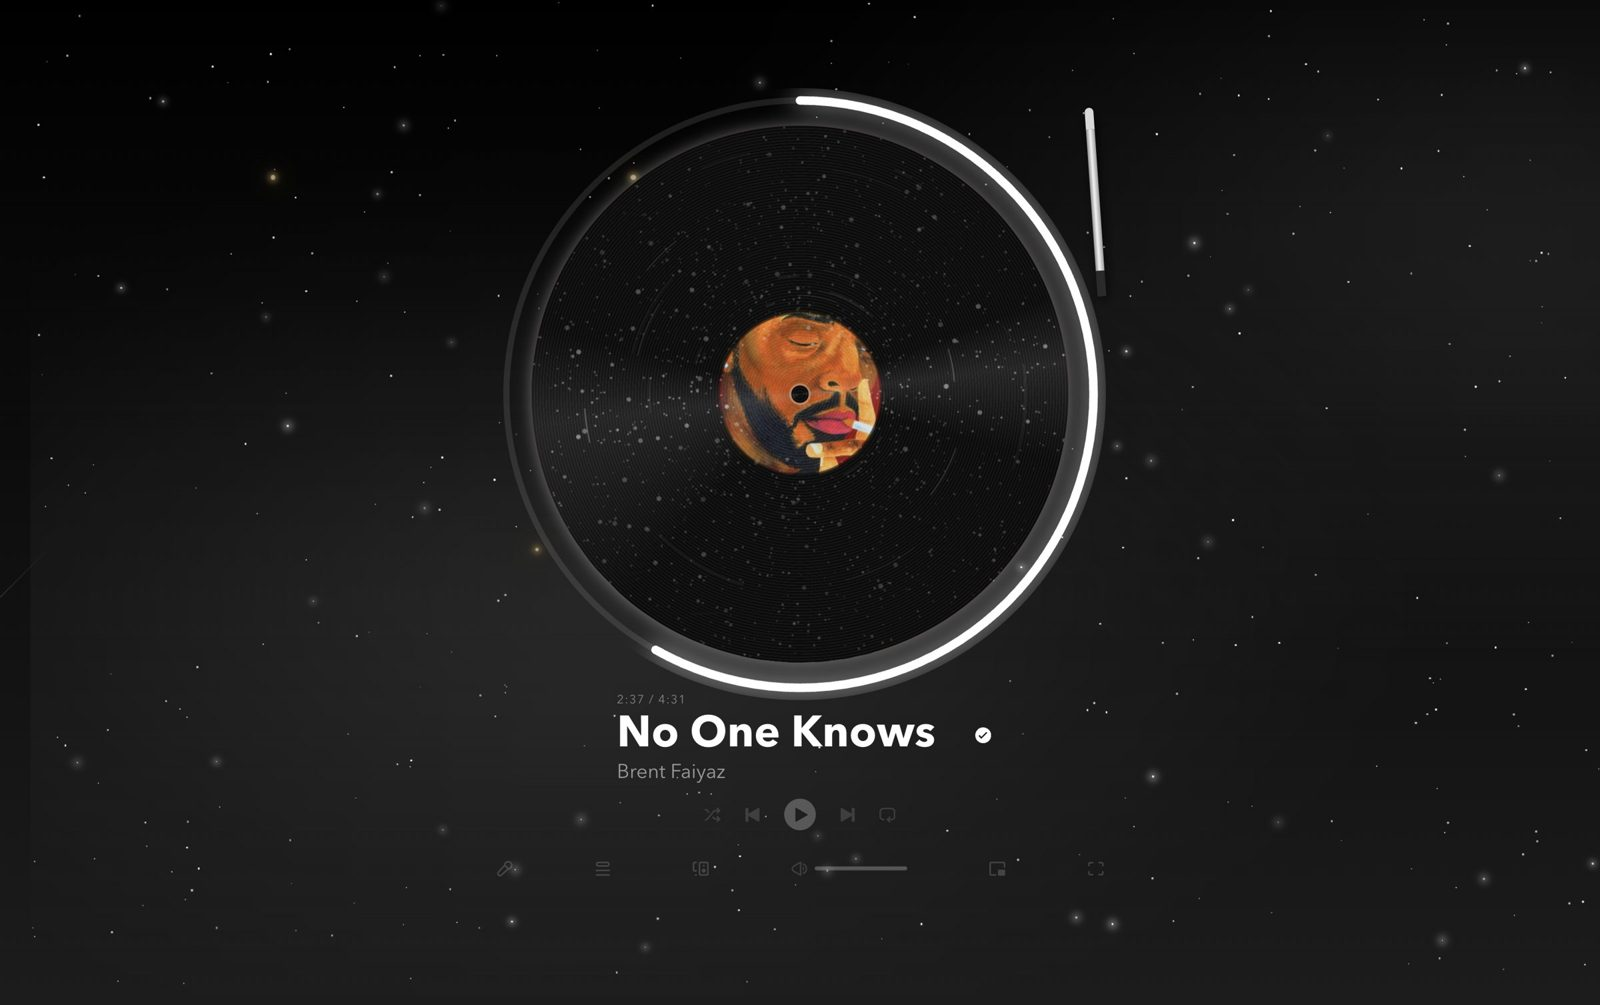
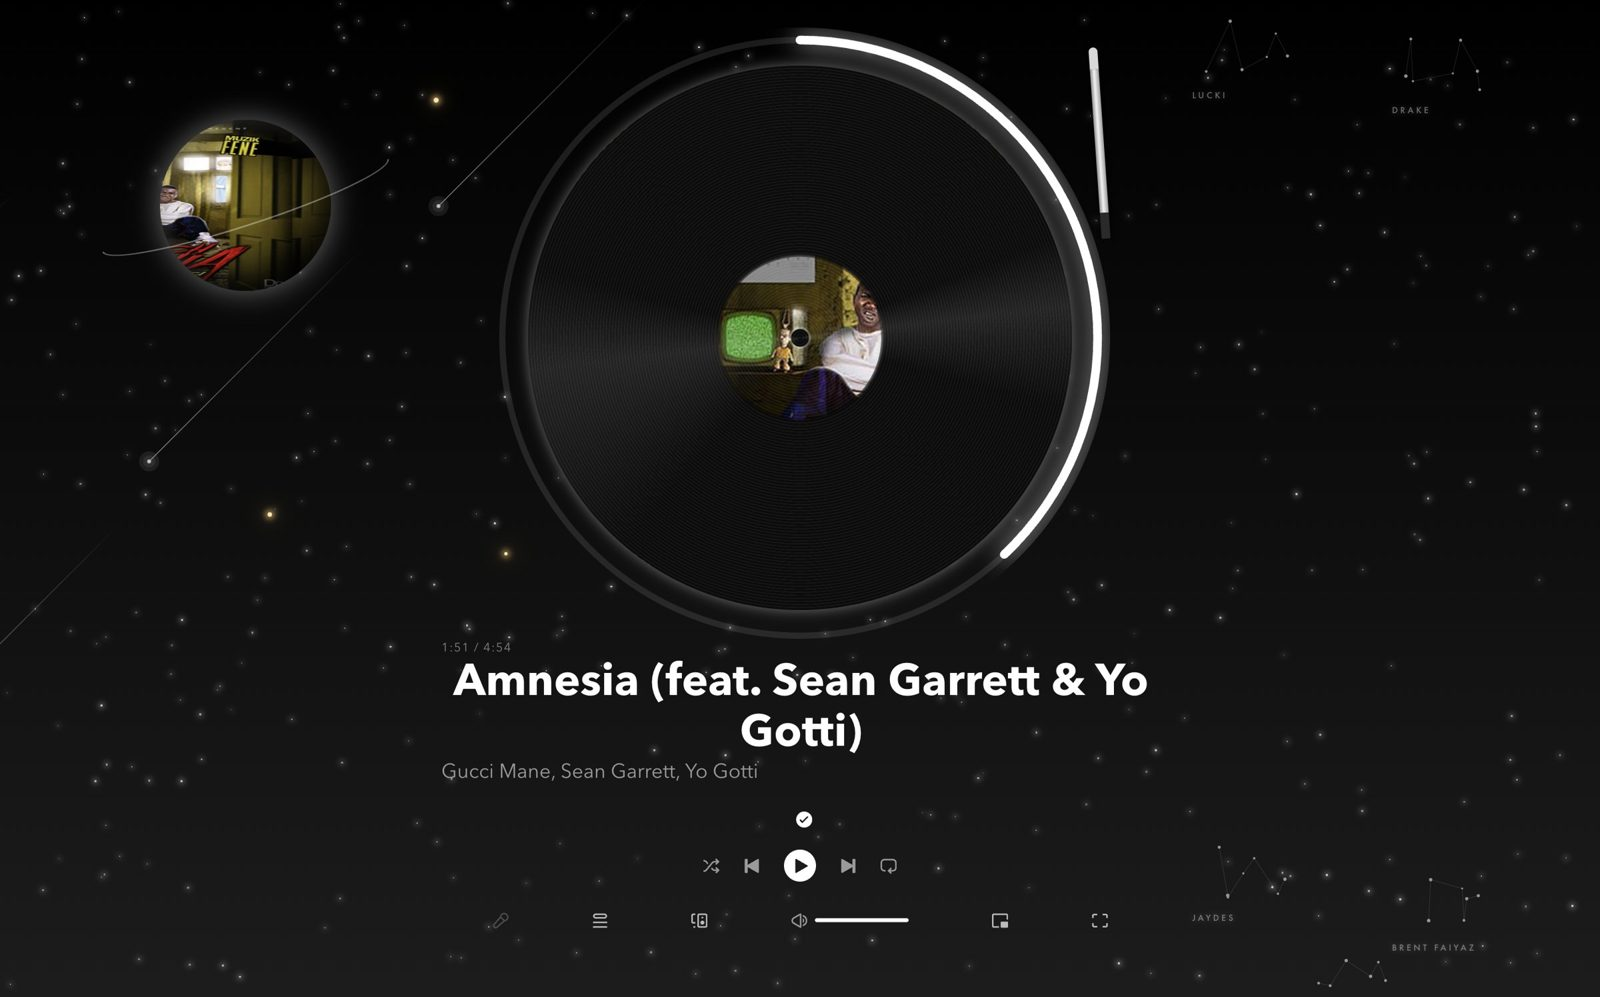
Refresh Starry Night screenshots; add the energy fix write-up

diff --git a/index.html b/index.html
@@ -277,7 +277,7 @@
 			that pulses on every beat and a progress ring you can click to seek. Behind it, a night sky
 			with 25 live-switchable schemes (one re-colours from each cover), warp streaks on skip,
 			meteor showers on loud sections, and a gold star left in the sky for every liked song.
-			A WebGL startup intro collapses 26k stars into the record before it flies into place.
+			A WebGL startup intro collapses 26k stars into the record before it flies into place. Your most-liked artists hang in the sky as constellations, the queue opens as a floating glass panel, and <kbd>H</kbd> toggles a clean mode for recording.
 			Top bar is a glass dock; type is Big Caslon, Futura and Avenir Next.
 			<a href="https://github.com/austinmax323-del/starry-night-spotify">repo</a>
 		</p>
@@ -315,6 +315,17 @@
 			<strong>Don't animate the theme's stars with <code>animation</code>.</strong> They already
 			run a twinkle animation and the shorthand replaces it. Moving them with the separate
 			<code>translate</code> property keeps the twinkle.
+		</div>
+		<div class="gotcha">
+			<strong>Spotify was the top energy user on the Mac, and the theme was the cause.</strong>
+			The renderer sat at ~109% CPU. Turning off <code>user.css</code> dropped style work from
+			~720&nbsp;ms to ~8&nbsp;ms per second, and bisecting the rules found the culprit: a slow
+			"camera drift" animation on the container holding ~400 stars forced a full-page style recalc
+			every frame (~330&nbsp;ms/s on its own). Smaller costs: a beat value written to <code>:root</code>
+			at 60&nbsp;fps (restyles everything, since custom properties inherit), and a poll reading a hidden
+			panel's <code>innerText</code> (forces style + layout). Fixes: drop the drift, scope the beat
+			variable to a childless glow layer animated by <code>opacity</code>, poll cheap attributes, pause
+			effects in the background and on battery. Result ~109% → ~42% while playing.
 		</div>
 		<div class="gotcha">
 			<strong><code>spicetify apply</code> prints "error" when nothing is wrong</strong> — its own
